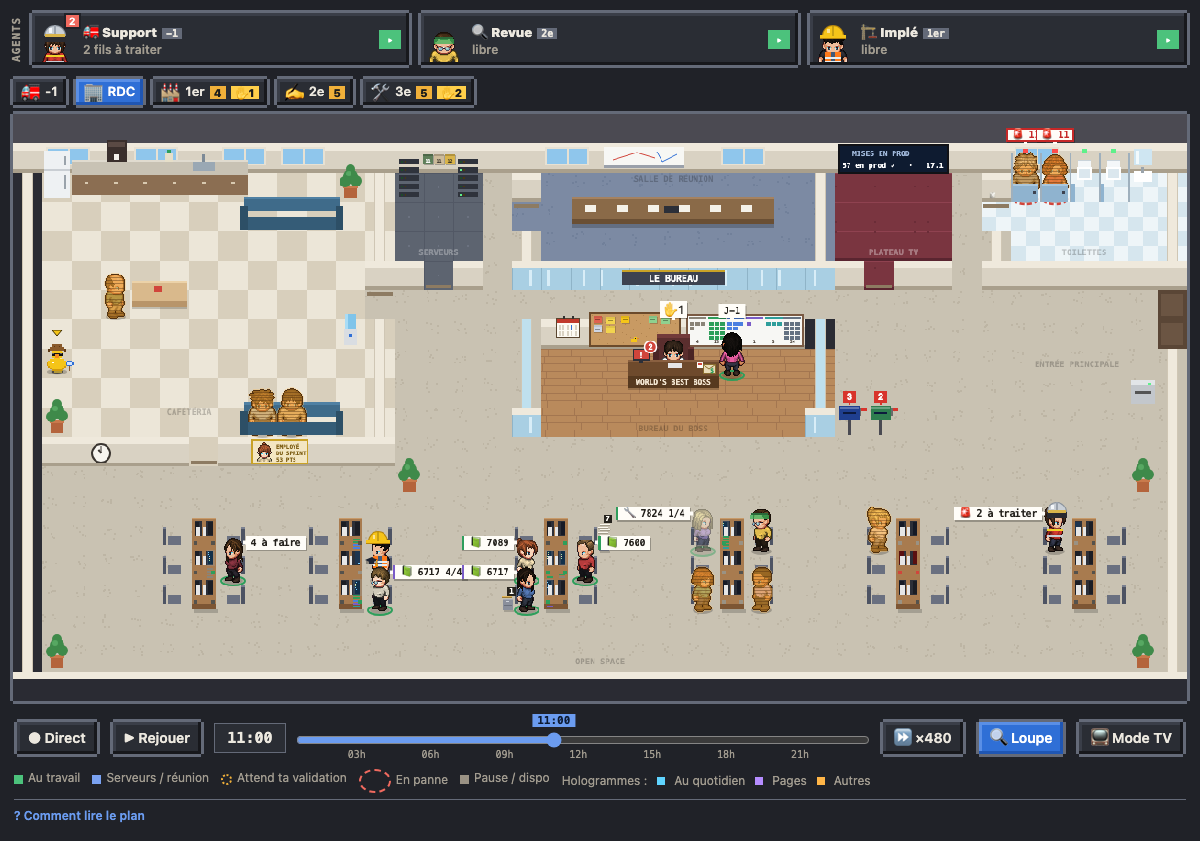
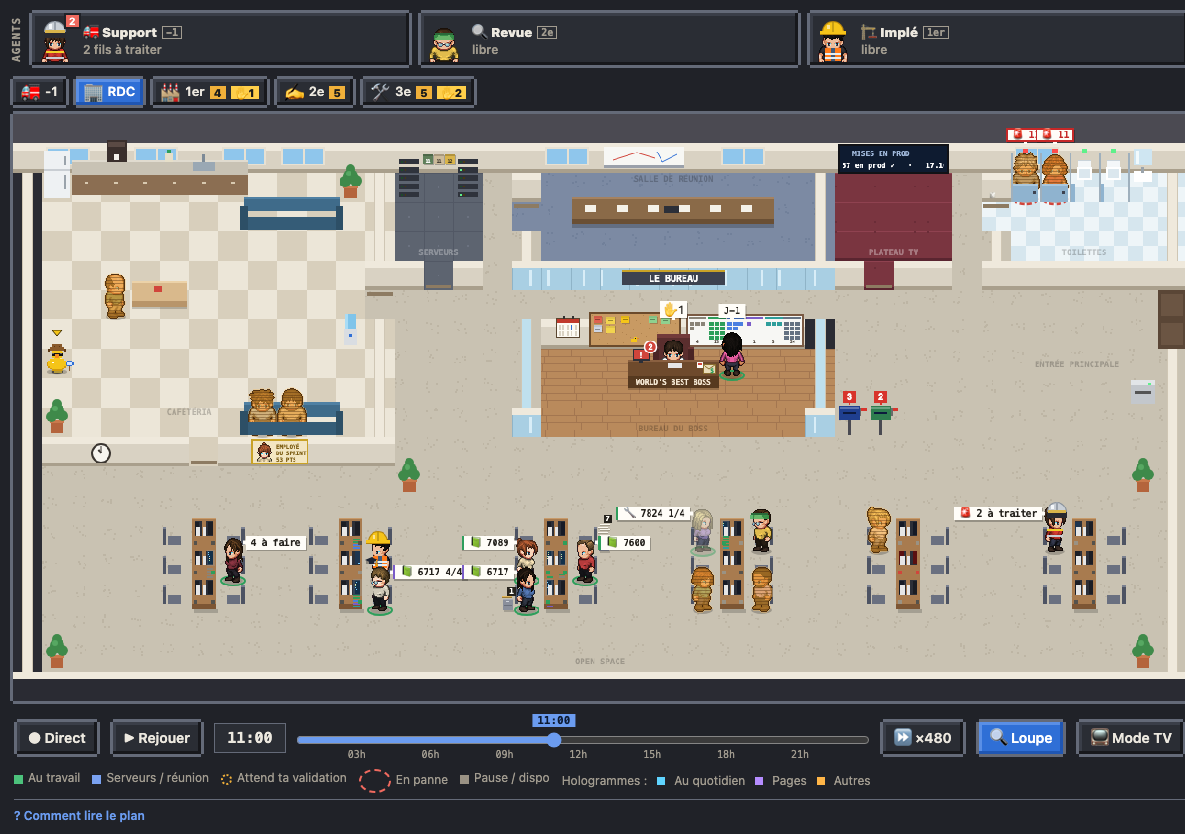
fix(agents): la barre lisible sur tous les thèmes, sans ▸, et la fiche en tenue
- L'étage des cartes (« -1 », « 2e »…) prenait la couleur de bordure du thème en fond. Avec le thème euronews, ça
  donnait un rectangle bleu marine sous un texte sombre. Il est maintenant encadré, dans la couleur du texte secondaire.
- Le bouton vert ▸ est retiré : il ne faisait rien de plus que le reste de la carte, qui se clique en entier.
- Le portrait de la fiche d'un agent de métier le montre en tenue, comme la barre (mtFrame, commun aux deux).

diff --git a/page/src/69-metiers.js b/page/src/69-metiers.js
@@ -74,12 +74,19 @@ function mtBlock(side,c){
   if(rows.length>MT_MAX){const e=document.createElement('div');e.className='note';e.textContent='Et '+(rows.length-MT_MAX)+' de plus : ⌘K ou le Kanban.';box.appendChild(e);}
 }
 // ---------- la barre « AGENTS », au-dessus des onglets d'étage, à tous les étages (hors mode TV) ----------
-function mtFace(c){ // le portrait en tenue : le personnage debout de face, coupé à la taille
+// le personnage de face en tenue, sur une image de 64 × 64 (celle d'une case du sprite) ; null tant que le sprite charge
+function mtFrame(c){
+  const m=metierOf(c), img=spriteOf(c);if(!m||!ready(img))return null;
+  const f=document.createElement('canvas');f.width=f.height=64;const g=f.getContext('2d');g.imageSmoothingEnabled=false;
+  g.drawImage(img,2*64,4*64,64,64,0,0,64,64);
+  const s=ctx;ctx=g;try{mtKit({...c,pos:{x:32,y:60},dir:'down',moving:false,pose:'stand'},m);}finally{ctx=s;} // pieds en (32, 60) : l'image en (0, 0)
+  return f;
+}
+// la barre : coupé à la taille ; la fiche (portrait, 50-panel.js) : le cadrage des autres portraits
+function mtFace(c){
+  const f=mtFrame(c);if(!f)return null;
   const p=document.createElement('canvas');p.width=40;p.height=46;const g=p.getContext('2d');g.imageSmoothingEnabled=false;
-  const img=spriteOf(c);if(!ready(img))return null;
-  const a={...c,pos:{x:20,y:62},dir:'down',moving:false,pose:'stand',_st:{st:'idle'}};
-  const s=ctx;ctx=g;try{ctx.drawImage(img,2*64,4*64,64,64,a.pos.x-32,a.pos.y-60,64,64);mtKit(a,METIERS[c.metier]);}finally{ctx=s;}
-  return p.toDataURL();
+  g.drawImage(f,12,2,40,46,0,0,40,46);return p.toDataURL();
 }
 const MT_FACE={};
 // l'état en une ligne et sa pastille : ce qui attend (validation, panne, fils du Support), sinon au travail ou libre
@@ -96,7 +103,7 @@ function mtBarHtml(){
     const f=MT_FACE[c.key]||(MT_FACE[c.key]=mtFace(c)||'');
     return `<button type="button" class="mt-a" data-mt="${esc(c.key)}" title="${esc(m.lbl+' · '+c.name+' : '+s.txt)}">`+
       (f?`<img src="${f}" alt="">`:'<span class="mt-f"></span>')+(s.b?`<span class="mt-b" style="background:${s.col}">${esc(s.b)}</span>`:'')+
-      `<span class="mt-x"><b>${m.ico} ${esc(m.lbl)}<span class="mt-fl">${MT_FLOOR[m.fl]}</span></b><small>${esc(s.txt)}</small></span><span class="mt-go" aria-hidden="true">▸</span></button>`;}).join('');
+      `<span class="mt-x"><b>${m.ico} ${esc(m.lbl)}<span class="mt-fl">${MT_FLOOR[m.fl]}</span></b><small>${esc(s.txt)}</small></span></button>`;}).join('');
 }
 function mtBar(){
   let b=document.getElementById('mtbar');

diff --git a/page/src/styles.css b/page/src/styles.css
@@ -910,12 +910,11 @@ body.tv #tvwho .at-bar i.avis,body.tv #tvwho .at-bar i.wait{background:var(--war
 /* la barre des agents des étages (69-metiers.js), au-dessus des onglets d'étage */
 .mtbar{display:flex;gap:6px;flex-wrap:wrap;margin:0 0 8px;align-items:stretch}
 .mtbar .mt-t{font:700 11px ui-monospace,Menlo,monospace;color:var(--muted);writing-mode:vertical-rl;transform:rotate(180deg);text-align:center;letter-spacing:.08em}
-.mtbar .mt-a{flex:1 1 150px;display:flex;gap:8px;align-items:center;position:relative;padding:3px 8px 3px 3px;border:3px solid var(--line);background:var(--panel);color:var(--ink);cursor:pointer;text-align:left;font:12px system-ui,sans-serif}
+.mtbar .mt-a{flex:1 1 150px;display:flex;gap:8px;align-items:center;position:relative;padding:3px 10px 3px 3px;border:3px solid var(--line);background:var(--panel);color:var(--ink);cursor:pointer;text-align:left;font:12px system-ui,sans-serif}
 .mtbar .mt-a:hover,.mtbar .mt-a:focus-visible{border-color:var(--accent)}
 .mtbar img,.mtbar .mt-f{width:40px;height:46px;image-rendering:pixelated;flex:none}
 .mtbar .mt-x{display:flex;flex-direction:column;min-width:0}
 .mtbar .mt-x b{font-size:13px;white-space:nowrap}.mtbar small{color:var(--muted);font-size:12px}
-.mtbar .mt-fl{font:700 10px ui-monospace,Menlo,monospace;background:var(--line);color:var(--ink);padding:0 4px;margin-left:5px}
-.mtbar .mt-go{margin-left:auto;background:var(--ok);color:#fff;padding:2px 8px;font-weight:700}
+.mtbar .mt-fl{font:700 10px ui-monospace,Menlo,monospace;border:1px solid currentColor;color:var(--muted);padding:0 3px;margin-left:5px;vertical-align:1px}
 .mtbar .mt-b{position:absolute;left:32px;top:0;min-width:16px;height:16px;padding:0 3px;border-radius:8px;color:#fff;font:700 10px system-ui,sans-serif;display:flex;align-items:center;justify-content:center;border:2px solid var(--panel)}
 body.tv .mtbar{display:none}

diff --git a/page/src/50-panel.js b/page/src/50-panel.js
@@ -34,6 +34,7 @@ const STATUS_COL={
 };
 function portrait(c,size){
   const p=document.createElement('canvas');p.width=40;p.height=40;const x=p.getContext('2d');x.imageSmoothingEnabled=false;
+  const mf=metierOf(c)&&mtFrame(c);if(mf){x.drawImage(mf,12,8,40,40,0,0,40,40);p.style.width=size+'px';p.style.height=size+'px';return p;} // 69-metiers.js : en tenue
   const img=spriteOf(c);if(ready(img)){const tall=c.sprite==='boss_sax'; // le saxophoniste est plus grand : tête vers y=2 au lieu de ~13
     const ox=2*64+12+(tall?5:0),oy=4*64+(tall?0:8);
     if(famOf(c)==='wf'&&!metierOf(c))x.drawImage(holoFrame(img,2*64,4*64,0,false,holoStyleOf(c)),12,8,40,40,0,0,40,40);else x.drawImage(img,ox,oy,40,40,0,0,40,40);}

diff --git a/tests/metiers.test.js b/tests/metiers.test.js
@@ -72,6 +72,7 @@ test('la barre : métier, étage et état ; pas de prénom affiché', () => {
   assert.match(h, /🏗 Implé<span class="mt-fl">1er<\/span>/);
   assert.match(h, /data-mt="dwight"/);
   assert.doesNotMatch(h.replace(/title="[^"]*"/g, ''), /Dwight|Ryan|Nellie/); // le prénom seulement dans l'infobulle
+  assert.doesNotMatch(h, /mt-go|▸/); // toute la carte se clique : pas de bouton ▸ à part
 });
 
 test('état d\'un agent dans la barre : sa validation passe avant le travail', () => {
